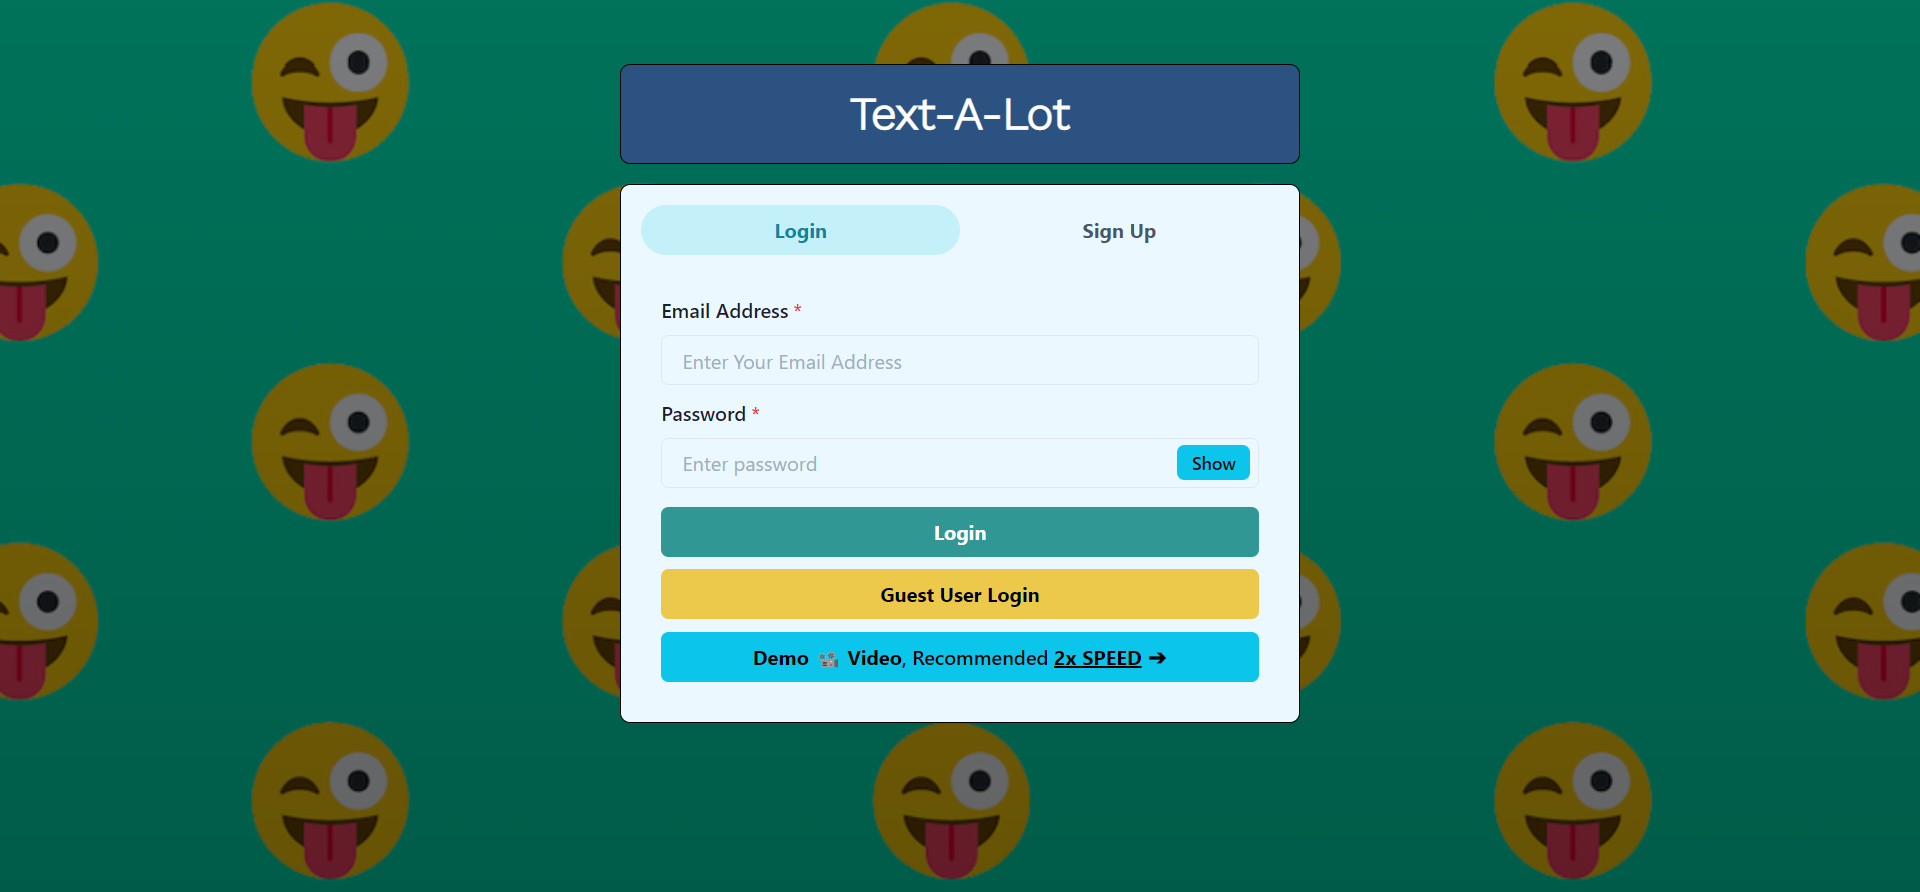
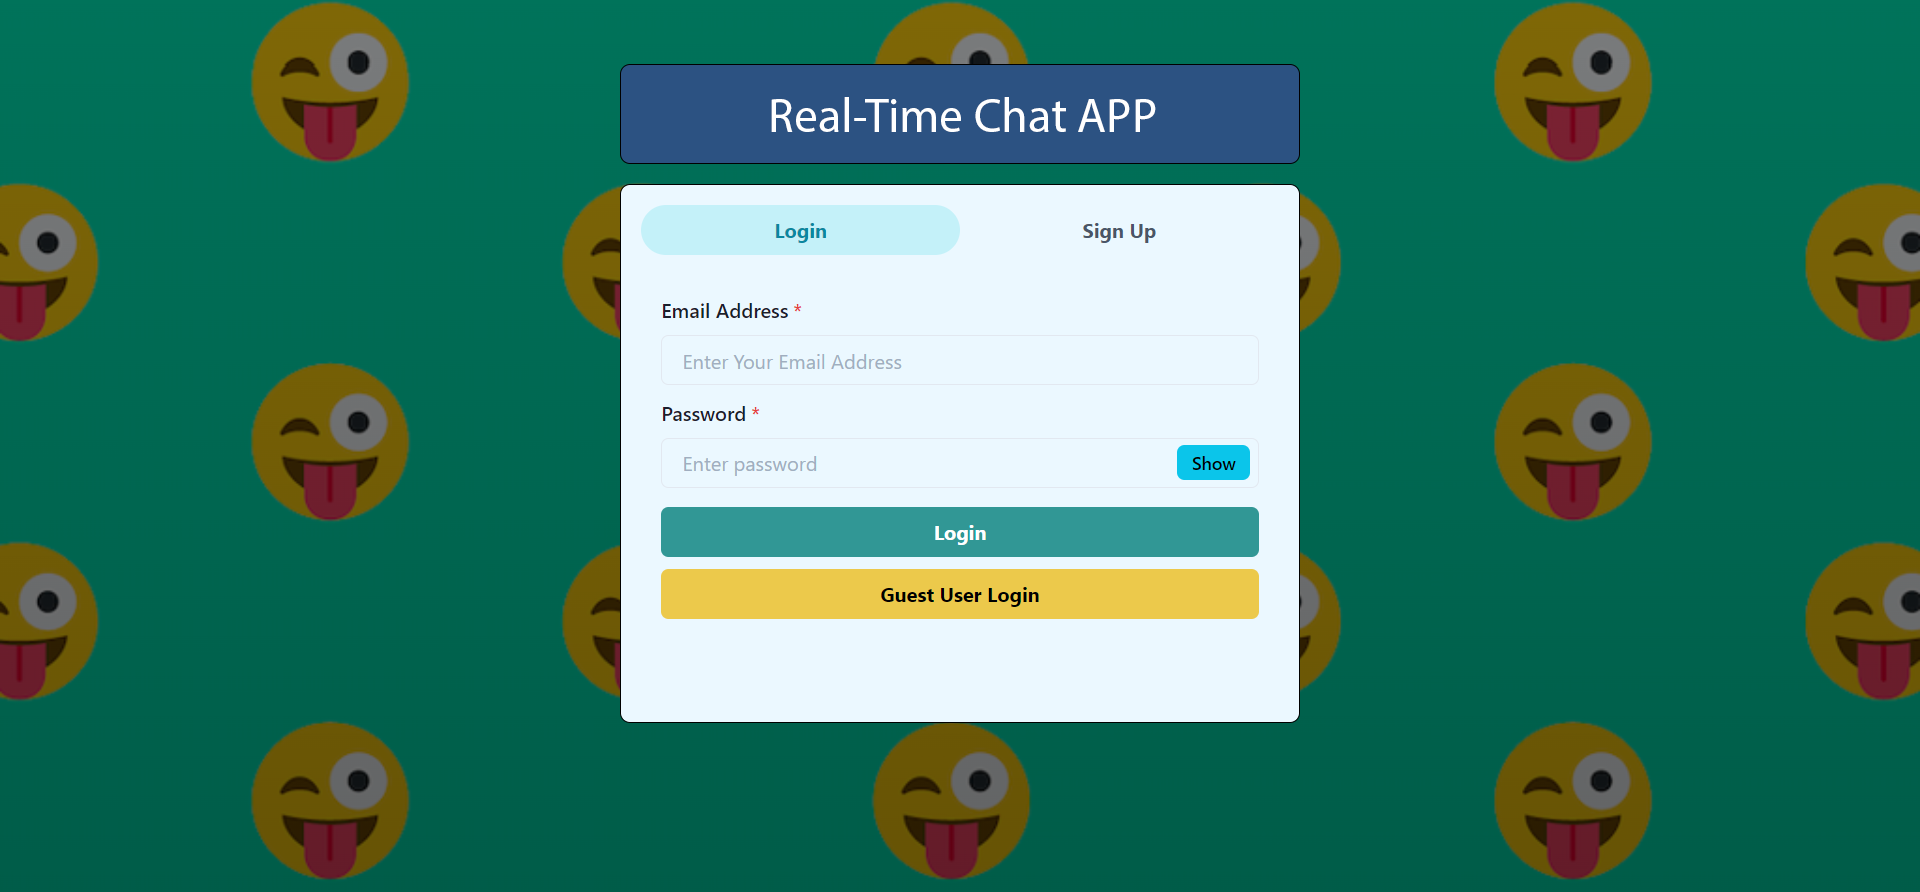
update
update

Changed region(s): [[0.3438, 0.6962, 0.6562, 0.787], [0.4062, 0.0908, 0.5938, 0.1513]]

diff --git a/README.md b/README.md
@@ -1,4 +1,4 @@
-# Text-A-Lot
+# Real-Time Group Chat
 
 > A Realtime Group Chat Application
 
